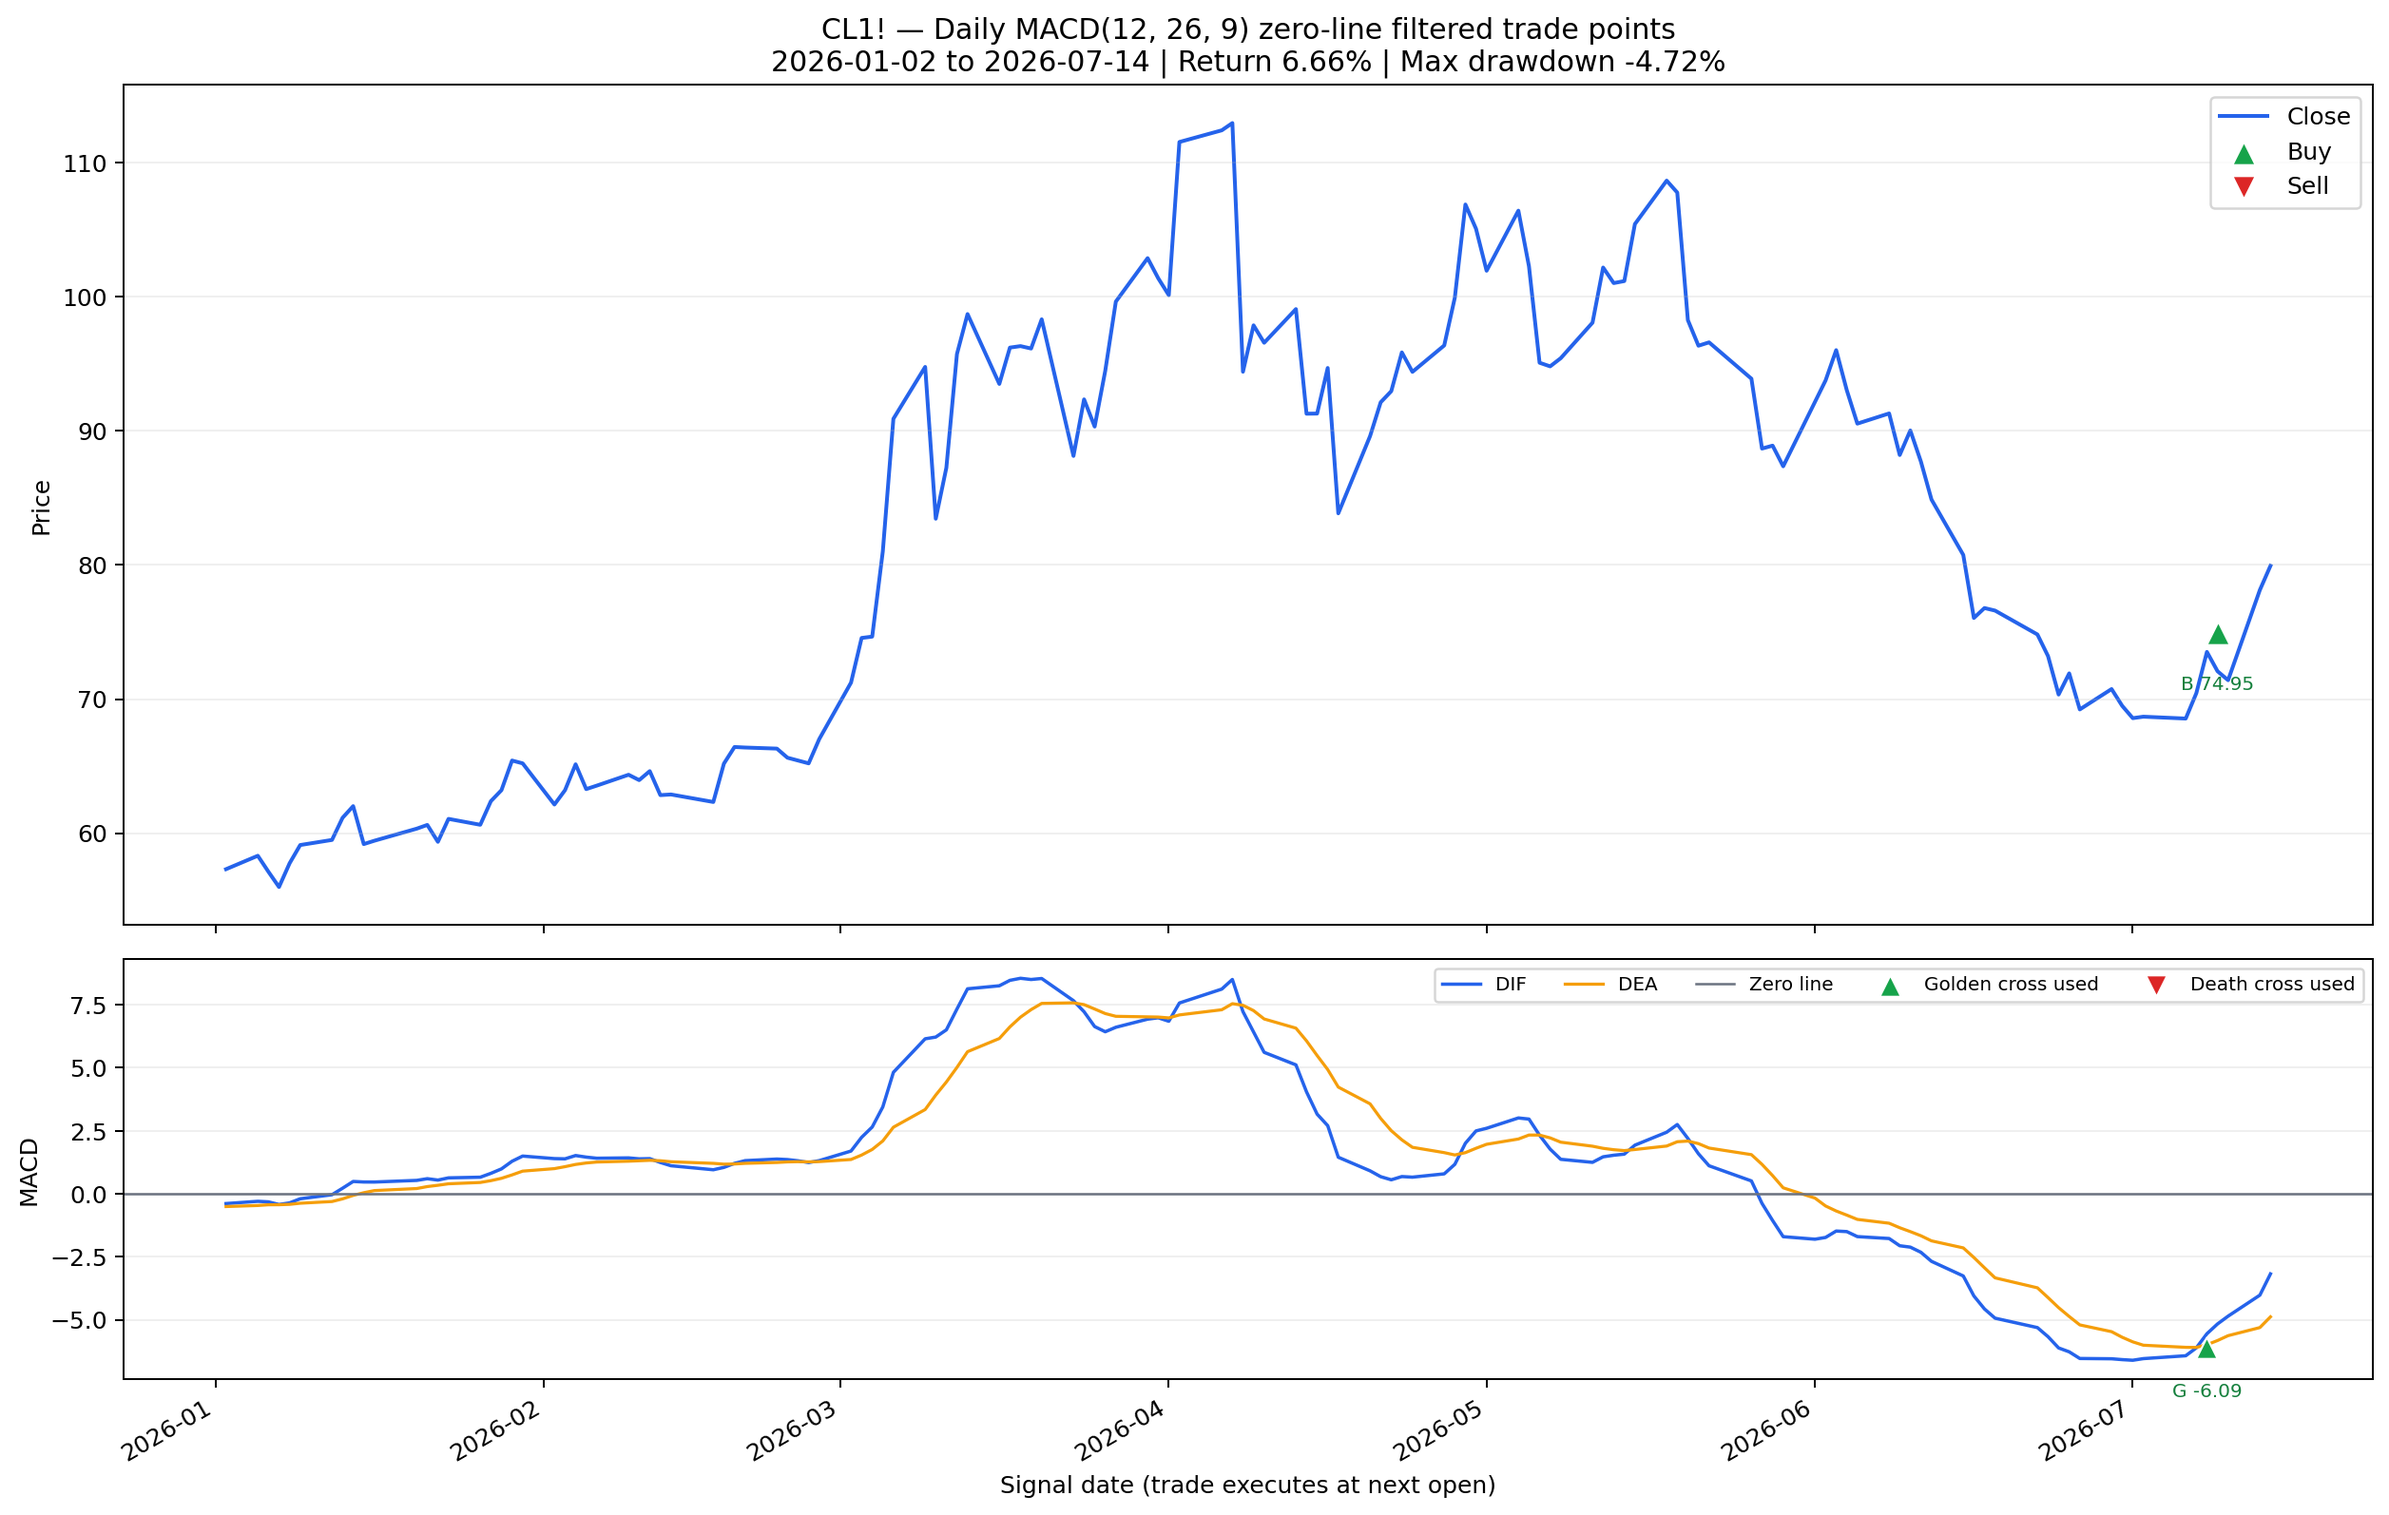
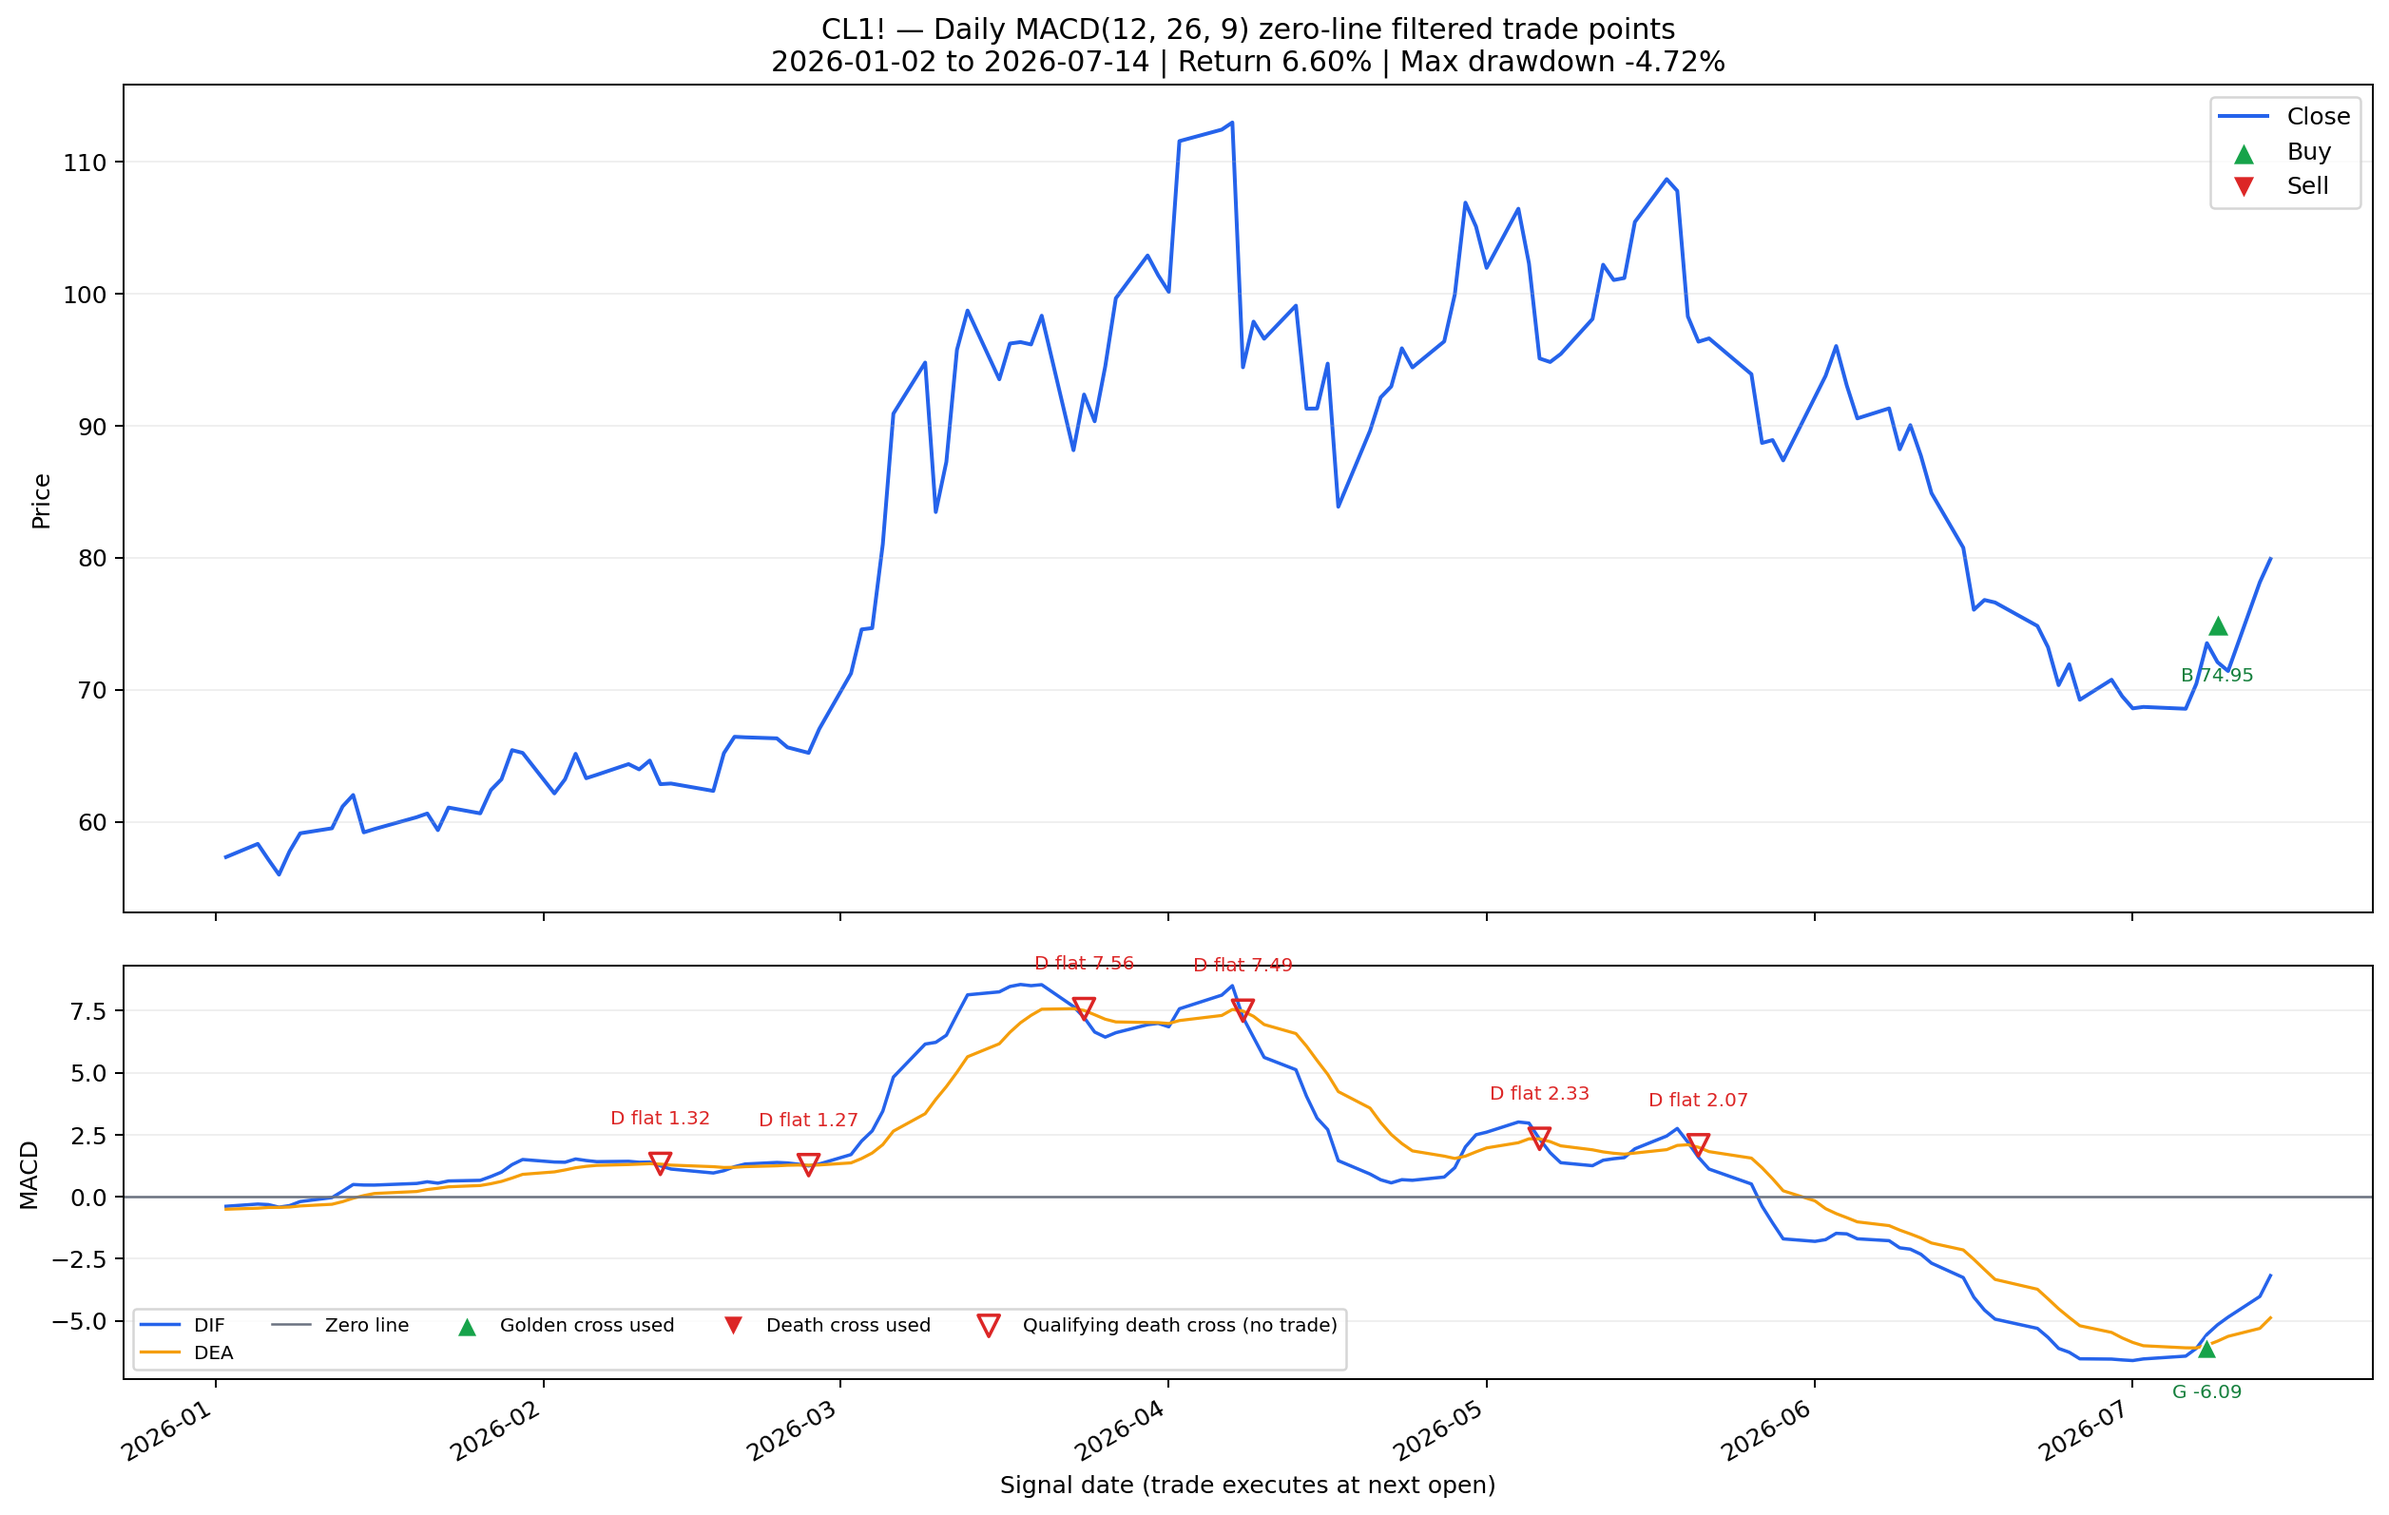
Auto-commit on session end

diff --git a/scripts/macd_backtest.py b/scripts/macd_backtest.py
@@ -409,6 +409,78 @@ def plot_trade_chart(
                 color="#b91c1c",
             )
 
+    if result.zero_filter:
+        actual_buy_days = (
+            set(pd.to_datetime(result.trades["买入信号日"]))
+            if not result.trades.empty
+            else set()
+        )
+        actual_sell_days = (
+            set(
+                pd.to_datetime(
+                    result.trades.loc[
+                        result.trades["状态"] == "已平仓", "卖出信号日"
+                    ]
+                )
+            )
+            if not result.trades.empty
+            else set()
+        )
+        qualifying_golden = period[
+            period["GoldenCross"] & (period["CrossLevel"] < 0)
+        ]
+        qualifying_death = period[
+            period["DeathCross"] & (period["CrossLevel"] > 0)
+        ]
+        skipped_golden = qualifying_golden[
+            ~qualifying_golden.index.isin(actual_buy_days)
+        ]
+        skipped_death = qualifying_death[
+            ~qualifying_death.index.isin(actual_sell_days)
+        ]
+        for skipped, marker, color, label, prefix, offset in (
+            (
+                skipped_golden,
+                "^",
+                "#16a34a",
+                "Qualifying golden cross (no trade)",
+                "G held",
+                -15,
+            ),
+            (
+                skipped_death,
+                "v",
+                "#dc2626",
+                "Qualifying death cross (no trade)",
+                "D flat",
+                15,
+            ),
+        ):
+            if skipped.empty:
+                continue
+            macd_axis.scatter(
+                skipped.index,
+                skipped["CrossLevel"],
+                marker=marker,
+                s=80,
+                facecolors="none",
+                edgecolors=color,
+                linewidths=1.4,
+                label=label,
+                zorder=3,
+            )
+            for day, level in skipped["CrossLevel"].items():
+                macd_axis.annotate(
+                    f"{prefix} {level:.2f}",
+                    (day, level),
+                    xytext=(0, offset),
+                    textcoords="offset points",
+                    ha="center",
+                    va="top" if offset < 0 else "bottom",
+                    fontsize=8,
+                    color=color,
+                )
+
     price_axis.set_title(
         f"{result.symbol} — Daily MACD({fast}, {slow}, {signal})"
         f"{' zero-line filtered' if result.zero_filter else ''} trade points\n"
